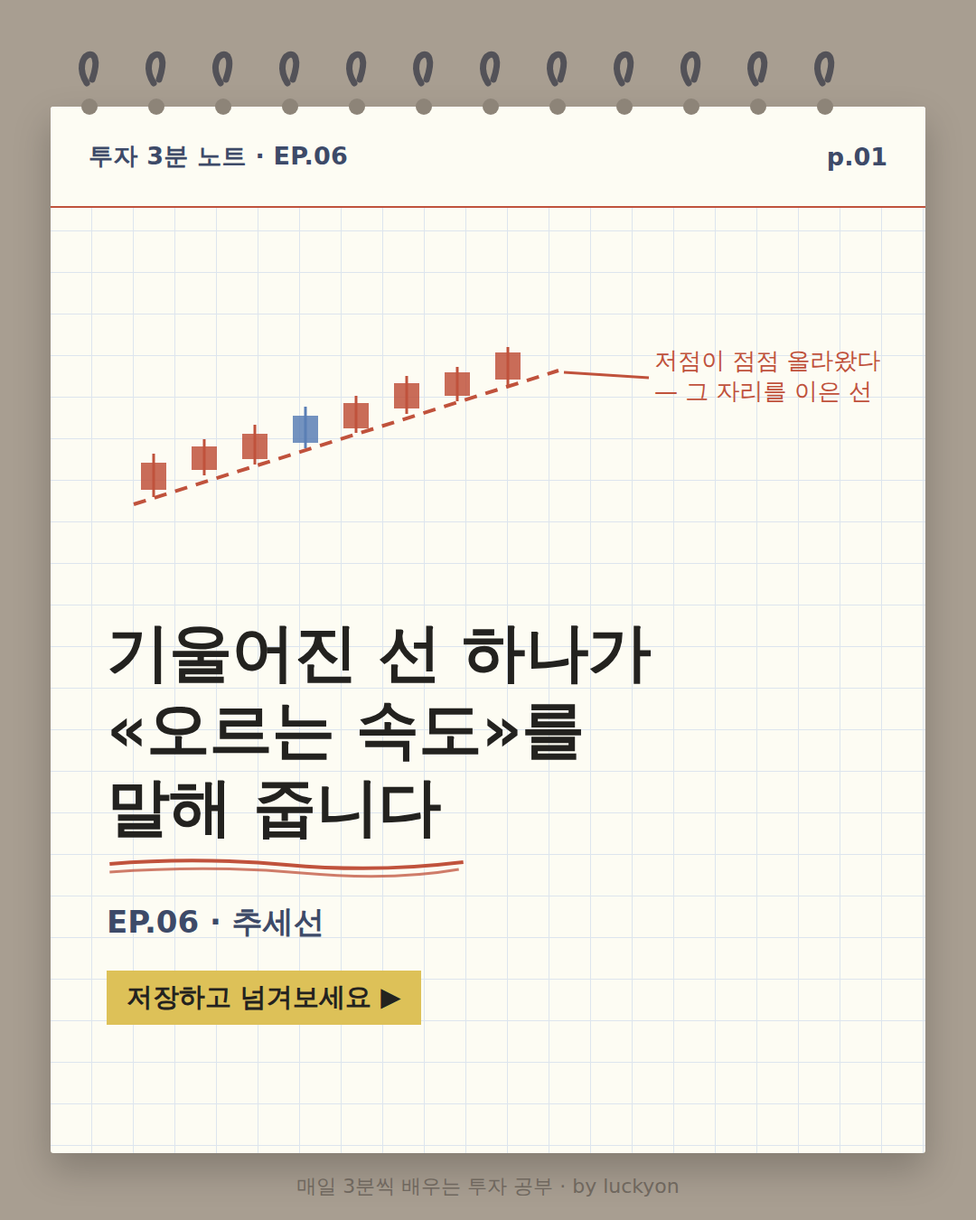
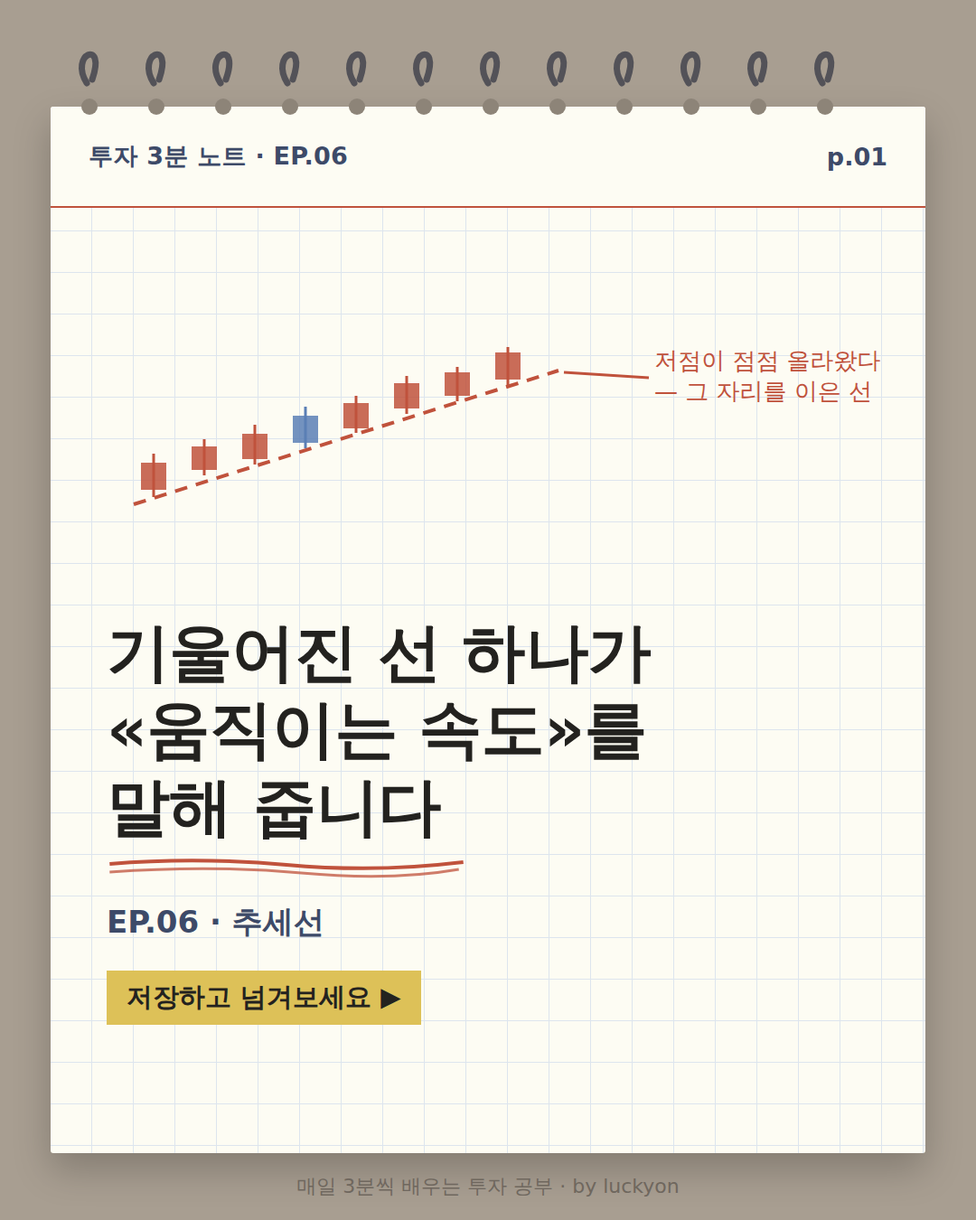
chart-notes: 2026-09-06-ep06 하락 추세선 누락 보완
사용자 검토 지적 — «하락 추세선이면 점점 낮아지는 것 아닌가, 전체적으로
상승하는 경우만 설명돼 있다». 실제로 카드 8장에 「저점」이 32번, 「고점」이
0번 나왔다. 하락 추세선은 고점을 잇고 그 고점이 점점 낮아지는데 그 말이
카드 어디에도 없어, 사실상 «추세선 = 저점을 잇는 선»으로 가르치고 있었다.
캡션에만 한 줄 있었으나 저장·재공유되는 것은 카드 이미지라 소용이 없다.

- p.03(개념)·p.05(이탈)에 note 문단으로 반대 방향을 적었다. 고점을 이으면
  하락 추세선이 되고 가격은 그 선을 아래에서 만나며, 이탈은 선 «위로»
  올라간 날이다. 그림은 EP.05 의 flip 과 같은 이유로 한 방향만 유지한다.
- 방향 중립으로 고친 곳: 표지 제목(오르는 → 움직이는 속도), p.04 비교표
  세 행 전부(저점 → 점 / 선 아래로 내려가면 → 선을 벗어나면)와 마무리,
  p.07 실수 ③ 과 경고문, p.08 요약 세 줄.
- 워크드 예시(표지 그림·도입 스케치·p.06 실제 사례)는 상승 한 방향으로
  둔다 — 화면에 그린 것과 글이 어긋나지 않아야 하기 때문이다.

캡션·대체텍스트도 같이 갱신했다. 발행 전이며 published 는 비어 있다.

Claude-Session: https://claude.ai/code/session_01DwdXeftpno199BA7Z1hCtm

Changed region(s): [[0.1528, 0.56, 0.6722, 0.6222]]

diff --git a/cards/chart-notes/2026-09-06-ep06/preview.html b/cards/chart-notes/2026-09-06-ep06/preview.html
@@ -62,76 +62,76 @@
     <h2>🇰🇷 한국어 — 8장</h2>
     <div class="cards">
     <figure>
-      <img src="ko/card1.png" alt="표지. 크림색 모눈 노트 위에 캔들 여덟 개가 왼쪽 아래에서 오른쪽 위로 계단처럼 올라간다. 그 캔들들의 아래꼬리 끝을 따라 붉은 점선 하나가 비스듬히 그어져 있고, 여러 캔들의 저가가 그 선에 닿아 있다. 점선의 오른쪽 끝을 가리키며 '저점이 점점 올라왔다 — 그 자리를 이은 선'이라는 주석이 붙어 있다. 큰 제목 '기울어진 선 하나가 «오르는 속도»를 말해 줍니다', 부제 'EP.06 · 추세선', 노란 형광펜 칩 '저장하고 넘겨보세요'." loading="lazy">
-      <figcaption><b>p.01</b> 표지. 크림색 모눈 노트 위에 캔들 여덟 개가 왼쪽 아래에서 오른쪽 위로 계단처럼 올라간다. 그 캔들들의 아래꼬리 끝을 따라 붉은 점선 하나가 비스듬히 그어져 있고, 여러 캔들의 저가가 그 선에 닿아 있다. 점선의 오른쪽 끝을 가리키며 '저점이 점점 올라왔다 — 그 자리를 이은 선'이라는 주석이 붙어 있다. 큰 제목 '기울어진 선 하나가 «오르는 속도»를 말해 줍니다', 부제 'EP.06 · 추세선', 노란 형광펜 칩 '저장하고 넘겨보세요'.</figcaption>
+      <img src="ko/card1.png" alt="표지. 크림색 모눈 노트 위에 캔들 여덟 개가 왼쪽 아래에서 오른쪽 위로 계단처럼 올라간다. 그 캔들들의 아래꼬리 끝을 따라 붉은 점선 하나가 비스듬히 그어져 있고, 여러 캔들의 저가가 그 선에 닿아 있다. 점선의 오른쪽 끝을 가리키며 '저점이 점점 올라왔다 — 그 자리를 이은 선'이라는 주석이 붙어 있다. 큰 제목 '기울어진 선 하나가 «움직이는 속도»를 말해 줍니다', 부제 'EP.06 · 추세선', 노란 형광펜 칩 '저장하고 넘겨보세요'." loading="lazy">
+      <figcaption><b>p.01</b> 표지. 크림색 모눈 노트 위에 캔들 여덟 개가 왼쪽 아래에서 오른쪽 위로 계단처럼 올라간다. 그 캔들들의 아래꼬리 끝을 따라 붉은 점선 하나가 비스듬히 그어져 있고, 여러 캔들의 저가가 그 선에 닿아 있다. 점선의 오른쪽 끝을 가리키며 '저점이 점점 올라왔다 — 그 자리를 이은 선'이라는 주석이 붙어 있다. 큰 제목 '기울어진 선 하나가 «움직이는 속도»를 말해 줍니다', 부제 'EP.06 · 추세선', 노란 형광펜 칩 '저장하고 넘겨보세요'.</figcaption>
     </figure>
     <figure>
       <img src="ko/card2.png" alt="도입 카드. 제목 '차트에 비스듬한 선, 어떻게 그은 걸까요?' 아래에 '가로선은 높이가 하나뿐이라 찾기 쉽지만 이 선은 닿는 자리마다 값이 다르다'는 본문이 있다. 그림은 회색 꺾은선이 왼쪽 아래에서 오른쪽 위로 오르내리며 올라가고, 그 저점들을 따라 붉은 점선 한 줄이 비스듬히 가로지른다. 점선이 끝나는 오른쪽 바깥에 붉은 물음표 세 개가 찍혀 «이 선이 어떻게 그어진 것이냐»고 묻는다. 맨 아래 '이번 편은 그 기울기가 무엇을 뜻하는지 봅니다'." loading="lazy">
       <figcaption><b>p.02</b> 도입 카드. 제목 '차트에 비스듬한 선, 어떻게 그은 걸까요?' 아래에 '가로선은 높이가 하나뿐이라 찾기 쉽지만 이 선은 닿는 자리마다 값이 다르다'는 본문이 있다. 그림은 회색 꺾은선이 왼쪽 아래에서 오른쪽 위로 오르내리며 올라가고, 그 저점들을 따라 붉은 점선 한 줄이 비스듬히 가로지른다. 점선이 끝나는 오른쪽 바깥에 붉은 물음표 세 개가 찍혀 «이 선이 어떻게 그어진 것이냐»고 묻는다. 맨 아래 '이번 편은 그 기울기가 무엇을 뜻하는지 봅니다'.</figcaption>
     </figure>
     <figure>
-      <img src="ko/card3.png" alt="원리 카드. 감청색 꺾은선이 오르내리며 오른쪽 위로 올라가고, 그 저점 세 개를 지나는 붉은 점선이 왼쪽 아래에서 오른쪽 위로 비스듬히 그어져 있다. 선이 그 점선에 닿은 자리마다 붉은 동그라미 안에 번호가 매겨져 있다 — 왼쪽부터 ①②③. 본문은 되돌아선 저점 중 점점 높아지는 두 개를 골라 잇고, 그 선을 오른쪽으로 늘려 세 번째로 그 선에서 멈추는지 본다고 설명한다. 아래 범례에 감청색 '주가'와 붉은색 '추세선'. 노란 형광펜 마무리 문구는 '두 점이면 선, 세 번째부터 «추세»입니다'." loading="lazy">
-      <figcaption><b>p.03</b> 원리 카드. 감청색 꺾은선이 오르내리며 오른쪽 위로 올라가고, 그 저점 세 개를 지나는 붉은 점선이 왼쪽 아래에서 오른쪽 위로 비스듬히 그어져 있다. 선이 그 점선에 닿은 자리마다 붉은 동그라미 안에 번호가 매겨져 있다 — 왼쪽부터 ①②③. 본문은 되돌아선 저점 중 점점 높아지는 두 개를 골라 잇고, 그 선을 오른쪽으로 늘려 세 번째로 그 선에서 멈추는지 본다고 설명한다. 아래 범례에 감청색 '주가'와 붉은색 '추세선'. 노란 형광펜 마무리 문구는 '두 점이면 선, 세 번째부터 «추세»입니다'.</figcaption>
+      <img src="ko/card3.png" alt="원리 카드. 감청색 꺾은선이 오르내리며 오른쪽 위로 올라가고, 그 저점 세 개를 지나는 붉은 점선이 왼쪽 아래에서 오른쪽 위로 비스듬히 그어져 있다. 선이 그 점선에 닿은 자리마다 붉은 동그라미 안에 번호가 매겨져 있다 — 왼쪽부터 ①②③. 본문은 되돌아선 저점 중 점점 높아지는 두 개를 골라 잇고, 그 선을 오른쪽으로 늘려 세 번째로 그 선에서 멈추는지 본다고 설명한다. 아래 범례에 감청색 '주가'와 붉은색 '추세선'. 그 아래 붉은 세로줄이 그어진 문단에 '거꾸로도 똑같습니다. 점점 «낮아지는» 고점 두 개를 이으면 하락 추세선이 되고, 가격은 그 선을 아래에서 만납니다. 잇는 자리가 저점에서 고점으로, 오름이 내림으로 바뀔 뿐입니다.' 노란 형광펜 마무리 문구는 '두 점이면 선, 세 번째부터 «추세»입니다'." loading="lazy">
+      <figcaption><b>p.03</b> 원리 카드. 감청색 꺾은선이 오르내리며 오른쪽 위로 올라가고, 그 저점 세 개를 지나는 붉은 점선이 왼쪽 아래에서 오른쪽 위로 비스듬히 그어져 있다. 선이 그 점선에 닿은 자리마다 붉은 동그라미 안에 번호가 매겨져 있다 — 왼쪽부터 ①②③. 본문은 되돌아선 저점 중 점점 높아지는 두 개를 골라 잇고, 그 선을 오른쪽으로 늘려 세 번째로 그 선에서 멈추는지 본다고 설명한다. 아래 범례에 감청색 '주가'와 붉은색 '추세선'. 그 아래 붉은 세로줄이 그어진 문단에 '거꾸로도 똑같습니다. 점점 «낮아지는» 고점 두 개를 이으면 하락 추세선이 되고, 가격은 그 선을 아래에서 만납니다. 잇는 자리가 저점에서 고점으로, 오름이 내림으로 바뀔 뿐입니다.' 노란 형광펜 마무리 문구는 '두 점이면 선, 세 번째부터 «추세»입니다'.</figcaption>
     </figure>
     <figure>
-      <img src="ko/card4.png" alt="비교 카드 '가로선과 무엇이 다른가'. 왼쪽에 감청색으로 칠해진 '추세선 · 기울어진 선', 오른쪽에 회색 '지지선 · 가로선' 머리칸이 있고 아래로 세 줄이 맞대어 있다. '잇는 저점들은' — 점점 높아진다 / 같은 높이다. '그래서 선이 남기는 것은' — 저점이 오르는 «속도» / 멈추는 «높이». '선 아래로 내려가면' — 그 속도가 끊긴 것 / 그 높이가 뚫린 것. 노란 형광펜 마무리 문구는 '추세선은 매일 더 높은 값을 요구합니다'." loading="lazy">
-      <figcaption><b>p.04</b> 비교 카드 '가로선과 무엇이 다른가'. 왼쪽에 감청색으로 칠해진 '추세선 · 기울어진 선', 오른쪽에 회색 '지지선 · 가로선' 머리칸이 있고 아래로 세 줄이 맞대어 있다. '잇는 저점들은' — 점점 높아진다 / 같은 높이다. '그래서 선이 남기는 것은' — 저점이 오르는 «속도» / 멈추는 «높이». '선 아래로 내려가면' — 그 속도가 끊긴 것 / 그 높이가 뚫린 것. 노란 형광펜 마무리 문구는 '추세선은 매일 더 높은 값을 요구합니다'.</figcaption>
+      <img src="ko/card4.png" alt="비교 카드 '가로선과 무엇이 다른가'. 왼쪽에 감청색으로 칠해진 '추세선 · 기울어진 선', 오른쪽에 회색 '지지선 · 가로선' 머리칸이 있고 아래로 세 줄이 맞대어 있다. '잇는 점들은' — 점점 높아지거나 낮아진다 / 같은 높이다. '그래서 선이 남기는 것은' — 그 점들이 옮겨 가는 «속도» / 멈추는 «높이». '선을 벗어나면' — 그 속도가 끊긴 것 / 그 높이가 뚫린 것. 노란 형광펜 마무리 문구는 '추세선은 어제 값으로는 지켜지지 않습니다'." loading="lazy">
+      <figcaption><b>p.04</b> 비교 카드 '가로선과 무엇이 다른가'. 왼쪽에 감청색으로 칠해진 '추세선 · 기울어진 선', 오른쪽에 회색 '지지선 · 가로선' 머리칸이 있고 아래로 세 줄이 맞대어 있다. '잇는 점들은' — 점점 높아지거나 낮아진다 / 같은 높이다. '그래서 선이 남기는 것은' — 그 점들이 옮겨 가는 «속도» / 멈추는 «높이». '선을 벗어나면' — 그 속도가 끊긴 것 / 그 높이가 뚫린 것. 노란 형광펜 마무리 문구는 '추세선은 어제 값으로는 지켜지지 않습니다'.</figcaption>
     </figure>
     <figure>
-      <img src="ko/card5.png" alt="추세 이탈 카드. 감청색 꺾은선이 붉은 점선 추세선을 따라 올라가며 세 번 그 선에서 멈추고, 멈춘 자리마다 붉은 동그라미 ①②③이 붙어 있다. 그러다 오른쪽에서 선이 꺾여 내려오면서 이번에는 점선 «아래»에서 멈추고, 그 지점에 번호 없는 붉은 동그라미와 '추세 이탈'이라는 라벨이 붙어 있다. 이후 선은 점선 아래에 머문 채 오른쪽으로 이어진다. 본문은 그날 가격이 전보다 낮아졌다는 뜻이 아니라 앞선 저점들이 만들어 놓은 속도에 못 미쳤다는 뜻이라고 설명한다. 노란 형광펜 마무리 문구는 '«떨어졌다»가 아니라 «속도가 꺾였다»입니다'." loading="lazy">
-      <figcaption><b>p.05</b> 추세 이탈 카드. 감청색 꺾은선이 붉은 점선 추세선을 따라 올라가며 세 번 그 선에서 멈추고, 멈춘 자리마다 붉은 동그라미 ①②③이 붙어 있다. 그러다 오른쪽에서 선이 꺾여 내려오면서 이번에는 점선 «아래»에서 멈추고, 그 지점에 번호 없는 붉은 동그라미와 '추세 이탈'이라는 라벨이 붙어 있다. 이후 선은 점선 아래에 머문 채 오른쪽으로 이어진다. 본문은 그날 가격이 전보다 낮아졌다는 뜻이 아니라 앞선 저점들이 만들어 놓은 속도에 못 미쳤다는 뜻이라고 설명한다. 노란 형광펜 마무리 문구는 '«떨어졌다»가 아니라 «속도가 꺾였다»입니다'.</figcaption>
+      <img src="ko/card5.png" alt="추세 이탈 카드. 감청색 꺾은선이 붉은 점선 추세선을 따라 올라가며 세 번 그 선에서 멈추고, 멈춘 자리마다 붉은 동그라미 ①②③이 붙어 있다. 그러다 오른쪽에서 선이 꺾여 내려오면서 이번에는 점선 «아래»에서 멈추고, 그 지점에 번호 없는 붉은 동그라미와 '추세 이탈'이라는 라벨이 붙어 있다. 이후 선은 점선 아래에 머문 채 오른쪽으로 이어진다. 본문은 그날 가격이 전보다 낮아졌다는 뜻이 아니라 앞선 저점들이 만들어 놓은 속도에 못 미쳤다는 뜻이라고 설명한다. 그림 아래 붉은 세로줄이 그어진 문단에 '하락 추세선이면 방향만 반대입니다 — 고점을 이은 선 «위로» 올라간 날이 이탈입니다.' 노란 형광펜 마무리 문구는 '«떨어졌다»가 아니라 «속도가 꺾였다»입니다'." loading="lazy">
+      <figcaption><b>p.05</b> 추세 이탈 카드. 감청색 꺾은선이 붉은 점선 추세선을 따라 올라가며 세 번 그 선에서 멈추고, 멈춘 자리마다 붉은 동그라미 ①②③이 붙어 있다. 그러다 오른쪽에서 선이 꺾여 내려오면서 이번에는 점선 «아래»에서 멈추고, 그 지점에 번호 없는 붉은 동그라미와 '추세 이탈'이라는 라벨이 붙어 있다. 이후 선은 점선 아래에 머문 채 오른쪽으로 이어진다. 본문은 그날 가격이 전보다 낮아졌다는 뜻이 아니라 앞선 저점들이 만들어 놓은 속도에 못 미쳤다는 뜻이라고 설명한다. 그림 아래 붉은 세로줄이 그어진 문단에 '하락 추세선이면 방향만 반대입니다 — 고점을 이은 선 «위로» 올라간 날이 이탈입니다.' 노란 형광펜 마무리 문구는 '«떨어졌다»가 아니라 «속도가 꺾였다»입니다'.</figcaption>
     </figure>
     <figure>
       <img src="ko/card6.png" alt="실제 사례 카드. 삼성전자 2026년 7월 30일부터 8월 28일까지 스물한 개의 일봉과 그 아래 거래량 막대가 두 칸으로 그려져 있다. 7월 30일 저가에서 시작해 오른쪽 위로 올라가는 붉은 점선 추세선이 그어져 있고 그 아래에 '추세선' 라벨이 붙어 있다. 붉은 동그라미 번호가 세 곳에 있다 — ①은 7월 30일 저가 20만 2,000원, ②는 8월 11일 저가 22만 7,500원, ③은 8월 24일 저가 25만 5,000원 자리다. 8월 24일까지는 어느 날의 저가도 점선 아래로 내려가지 않는다. 그 뒤 8월 25·26·27일은 아래꼬리 끝만 점선 아래로 내려갔다가 몸통은 위에서 끝나고, 맨 오른쪽 8월 28일 봉에는 종가 25만 7,000원 자리에 번호 없는 붉은 동그라미와 '종가 이탈' 라벨이 붙어 있다 — 이 자리는 점선보다 뚜렷이 아래다. x축에는 7/30, 8/3, 8/6, 8/11, 8/14, 8/19, 8/24, 8/28 이 찍혀 있다. 마무리 문구 '꼬리가 아니라 종가가 내려간 날이 이탈입니다'." loading="lazy">
       <figcaption><b>p.06</b> 실제 사례 카드. 삼성전자 2026년 7월 30일부터 8월 28일까지 스물한 개의 일봉과 그 아래 거래량 막대가 두 칸으로 그려져 있다. 7월 30일 저가에서 시작해 오른쪽 위로 올라가는 붉은 점선 추세선이 그어져 있고 그 아래에 '추세선' 라벨이 붙어 있다. 붉은 동그라미 번호가 세 곳에 있다 — ①은 7월 30일 저가 20만 2,000원, ②는 8월 11일 저가 22만 7,500원, ③은 8월 24일 저가 25만 5,000원 자리다. 8월 24일까지는 어느 날의 저가도 점선 아래로 내려가지 않는다. 그 뒤 8월 25·26·27일은 아래꼬리 끝만 점선 아래로 내려갔다가 몸통은 위에서 끝나고, 맨 오른쪽 8월 28일 봉에는 종가 25만 7,000원 자리에 번호 없는 붉은 동그라미와 '종가 이탈' 라벨이 붙어 있다 — 이 자리는 점선보다 뚜렷이 아래다. x축에는 7/30, 8/3, 8/6, 8/11, 8/14, 8/19, 8/24, 8/28 이 찍혀 있다. 마무리 문구 '꼬리가 아니라 종가가 내려간 날이 이탈입니다'.</figcaption>
     </figure>
     <figure>
-      <img src="ko/card7.png" alt="실수 카드. 번호 붙은 세 항목. 1. 선부터 긋고 저점을 고른다 — 그럴듯한 각도를 먼저 정하고 거기 걸리는 저점만 고르면 시장의 기록이 아니라 내가 그린 그림이 된다. 2. 꼬리 하나로 이탈을 판정한다 — 장중에 저가가 잠깐 선 아래를 찍었다가 다시 올라온 날과 종가까지 선 아래에서 끝난 날은 다르다. 3. 가파를수록 좋은 선이라 본다 — 가파른 선은 저점이 매번 그만큼 더 올라와야 유지되므로 요구가 클수록 지켜지기 어렵다. 아래 붉은 테두리 상자에 '가장 흔한 오해 — 선 아래로 내려갔다고 방향이 바뀐 것은 아닙니다. 그 속도가 더는 나오지 않았다는 기록일 뿐, 앞으로 어떻게 될지는 말해 주지 않습니다'." loading="lazy">
-      <figcaption><b>p.07</b> 실수 카드. 번호 붙은 세 항목. 1. 선부터 긋고 저점을 고른다 — 그럴듯한 각도를 먼저 정하고 거기 걸리는 저점만 고르면 시장의 기록이 아니라 내가 그린 그림이 된다. 2. 꼬리 하나로 이탈을 판정한다 — 장중에 저가가 잠깐 선 아래를 찍었다가 다시 올라온 날과 종가까지 선 아래에서 끝난 날은 다르다. 3. 가파를수록 좋은 선이라 본다 — 가파른 선은 저점이 매번 그만큼 더 올라와야 유지되므로 요구가 클수록 지켜지기 어렵다. 아래 붉은 테두리 상자에 '가장 흔한 오해 — 선 아래로 내려갔다고 방향이 바뀐 것은 아닙니다. 그 속도가 더는 나오지 않았다는 기록일 뿐, 앞으로 어떻게 될지는 말해 주지 않습니다'.</figcaption>
+      <img src="ko/card7.png" alt="실수 카드. 번호 붙은 세 항목. 1. 선부터 긋고 저점을 고른다 — 그럴듯한 각도를 먼저 정하고 거기 걸리는 저점만 고르면 시장의 기록이 아니라 내가 그린 그림이 된다. 2. 꼬리 하나로 이탈을 판정한다 — 장중에 저가가 잠깐 선 아래를 찍었다가 다시 올라온 날과 종가까지 선 아래에서 끝난 날은 다르다. 3. 가파를수록 좋은 선이라 본다 — 가파른 선은 그 점들이 매번 그만큼 더 움직여야 유지되므로 요구가 클수록 지켜지기 어렵다. 아래 붉은 테두리 상자에 '가장 흔한 오해 — 선을 벗어났다고 방향이 바뀐 것은 아닙니다. 그 속도가 더는 나오지 않았다는 기록일 뿐, 앞으로 어떻게 될지는 말해 주지 않습니다'." loading="lazy">
+      <figcaption><b>p.07</b> 실수 카드. 번호 붙은 세 항목. 1. 선부터 긋고 저점을 고른다 — 그럴듯한 각도를 먼저 정하고 거기 걸리는 저점만 고르면 시장의 기록이 아니라 내가 그린 그림이 된다. 2. 꼬리 하나로 이탈을 판정한다 — 장중에 저가가 잠깐 선 아래를 찍었다가 다시 올라온 날과 종가까지 선 아래에서 끝난 날은 다르다. 3. 가파를수록 좋은 선이라 본다 — 가파른 선은 그 점들이 매번 그만큼 더 움직여야 유지되므로 요구가 클수록 지켜지기 어렵다. 아래 붉은 테두리 상자에 '가장 흔한 오해 — 선을 벗어났다고 방향이 바뀐 것은 아닙니다. 그 속도가 더는 나오지 않았다는 기록일 뿐, 앞으로 어떻게 될지는 말해 주지 않습니다'.</figcaption>
     </figure>
     <figure>
-      <img src="ko/card8.png" alt="요약 카드. 체크박스 세 줄: 저점 두 개면 그어지고, 세 번째가 확인합니다 / 기울기는 저점이 오르는 «속도»입니다 / 내려가면 방향이 아니라 속도가 끊긴 것입니다. 노란 형광펜 칩 두 개로 저장 유도와 해시태그, 그 아래 '다음 편 ▶ 갭 상승·갭 하락', 맨 아래에 교육 목적 고지." loading="lazy">
-      <figcaption><b>p.08</b> 요약 카드. 체크박스 세 줄: 저점 두 개면 그어지고, 세 번째가 확인합니다 / 기울기는 저점이 오르는 «속도»입니다 / 내려가면 방향이 아니라 속도가 끊긴 것입니다. 노란 형광펜 칩 두 개로 저장 유도와 해시태그, 그 아래 '다음 편 ▶ 갭 상승·갭 하락', 맨 아래에 교육 목적 고지.</figcaption>
+      <img src="ko/card8.png" alt="요약 카드. 체크박스 세 줄: 점 두 개면 그어지고, 세 번째가 확인합니다 / 기울기는 그 점들이 옮겨 가는 «속도»입니다 / 선을 벗어나면 방향이 아니라 속도가 끊긴 것입니다. 노란 형광펜 칩 두 개로 저장 유도와 해시태그, 그 아래 '다음 편 ▶ 갭 상승·갭 하락', 맨 아래에 교육 목적 고지." loading="lazy">
+      <figcaption><b>p.08</b> 요약 카드. 체크박스 세 줄: 점 두 개면 그어지고, 세 번째가 확인합니다 / 기울기는 그 점들이 옮겨 가는 «속도»입니다 / 선을 벗어나면 방향이 아니라 속도가 끊긴 것입니다. 노란 형광펜 칩 두 개로 저장 유도와 해시태그, 그 아래 '다음 편 ▶ 갭 상승·갭 하락', 맨 아래에 교육 목적 고지.</figcaption>
     </figure></div>
-    <h3>캡션 (914자)</h3>
-    <div class="cap">차트에 비스듬하게 그어진 선, 대충 눈대중으로 그은 게 아닙니다.<br><br>가격이 되돌아선 저점 중에서 «점점 높아지는» 두 개를 골라 이으면 그게 추세선입니다. 두 점이면 선은 그어지고, 세 번째로 그 선에서 멈추는 날이 와야 «추세»가 됩니다.<br><br>이번 편에서 꼭 가져가셨으면 하는 것 하나. 가로선(지지선)과 추세선은 재는 것이 다릅니다. 가로선은 가격이 멈추는 «높이»를 남기고, 추세선은 그 저점이 올라가는 «속도»를 남깁니다. 그래서 선 아래로 내려간 날은 «떨어진 날»이 아니라 «앞선 저점들이 만들어 놓은 속도에 못 미친 날»입니다. 방향이 바뀌었다는 뜻이 아니라는 것, 이게 가장 흔한 오해입니다.<br><br>실제 삼성전자 일봉으로도 확인했습니다. 2026년 7월 30일 저가 20만 2,000원과 8월 11일 저가 22만 7,500원을 이어 오른쪽으로 늘렸더니, 8거래일 뒤인 8월 24일 저가 25만 5,000원이 그 선(25만 3,000원) 바로 위에서 멈췄습니다. 그리고 이 선이 어떻게 끝났는지도 함께 실었습니다 — 8월 25·26·27일은 꼬리만 선 아래를 찍고 종가는 위였지만, 8월 28일 종가 25만 7,000원이 선(26만 5,750원) 아래에서 끝나며 이탈이 확정됐습니다. 꼬리와 종가를 갈라 보는 이유가 여기 있습니다.<br><br>이번 편은 저점을 잇는 «상승» 추세선만 봤습니다. 고점을 잇는 하락 추세선도 긋는 방법은 똑같습니다.<br><br>기억할 세 가지<br>① 저점 두 개면 그어지고, 세 번째가 확인한다<br>② 기울기는 저점이 오르는 속도다<br>③ 내려가면 방향이 아니라 속도가 끊긴 것이다<br><br>저장해 두고 차트 볼 때 꺼내 보세요 📌<br><br>#추세선 #추세이탈 #지지선 #주식차트 #주식공부 #주식초보 #차트분석 #기술적분석 #삼성전자 #투자3분노트<br><br>다음 편 ▶ 갭 상승·갭 하락<br><br>※ 본 콘텐츠는 교육 목적이며 투자 권유가 아닙니다.</div>
+    <h3>캡션 (1016자)</h3>
+    <div class="cap">차트에 비스듬하게 그어진 선, 대충 눈대중으로 그은 게 아닙니다.<br><br>가격이 되돌아선 저점 중에서 «점점 높아지는» 두 개를 골라 이으면 그게 추세선입니다. 두 점이면 선은 그어지고, 세 번째로 그 선에서 멈추는 날이 와야 «추세»가 됩니다.<br><br>이번 편에서 꼭 가져가셨으면 하는 것 하나. 가로선(지지선)과 추세선은 재는 것이 다릅니다. 가로선은 가격이 멈추는 «높이»를 남기고, 추세선은 그 저점이 올라가는 «속도»를 남깁니다. 그래서 선 아래로 내려간 날은 «떨어진 날»이 아니라 «앞선 저점들이 만들어 놓은 속도에 못 미친 날»입니다. 방향이 바뀌었다는 뜻이 아니라는 것, 이게 가장 흔한 오해입니다.<br><br>실제 삼성전자 일봉으로도 확인했습니다. 2026년 7월 30일 저가 20만 2,000원과 8월 11일 저가 22만 7,500원을 이어 오른쪽으로 늘렸더니, 8거래일 뒤인 8월 24일 저가 25만 5,000원이 그 선(25만 3,000원) 바로 위에서 멈췄습니다. 그리고 이 선이 어떻게 끝났는지도 함께 실었습니다 — 8월 25·26·27일은 꼬리만 선 아래를 찍고 종가는 위였지만, 8월 28일 종가 25만 7,000원이 선(26만 5,750원) 아래에서 끝나며 이탈이 확정됐습니다. 꼬리와 종가를 갈라 보는 이유가 여기 있습니다.<br><br>카드의 예시는 저점을 잇는 상승 추세선이지만, 거꾸로도 똑같습니다. 점점 «낮아지는» 고점 두 개를 이으면 하락 추세선이 되고, 가격은 그 선을 아래에서 만납니다. 이때는 선 «위로» 올라간 날이 이탈입니다. 잇는 자리가 저점에서 고점으로, 오름이 내림으로 바뀔 뿐 방법은 하나입니다.<br><br>기억할 세 가지<br>① 저점 두 개면 그어지고, 세 번째가 확인한다<br>② 기울기는 저점이 오르는 속도다<br>③ 내려가면 방향이 아니라 속도가 끊긴 것이다<br><br>저장해 두고 차트 볼 때 꺼내 보세요 📌<br><br>#추세선 #추세이탈 #지지선 #주식차트 #주식공부 #주식초보 #차트분석 #기술적분석 #삼성전자 #투자3분노트<br><br>다음 편 ▶ 갭 상승·갭 하락<br><br>※ 본 콘텐츠는 교육 목적이며 투자 권유가 아닙니다.</div>
 
     <h2>🇺🇸 English — 8장</h2>
     <div class="cards">
     <figure>
-      <img src="en/card1.png" alt="Cover. On cream grid paper, eight candlesticks step up from the lower left to the upper right. A single red dashed line runs diagonally beneath them, touching the lows of several candles. An annotation points at the right end of that line: 'the lows kept rising — that's the line'. Headline 'One slanted line tells you how fast it's climbing', subtitle 'EP.06 · Trendlines', yellow highlighter chip 'Save this and swipe'." loading="lazy">
-      <figcaption><b>p.01</b> Cover. On cream grid paper, eight candlesticks step up from the lower left to the upper right. A single red dashed line runs diagonally beneath them, touching the lows of several candles. An annotation points at the right end of that line: 'the lows kept rising — that's the line'. Headline 'One slanted line tells you how fast it's climbing', subtitle 'EP.06 · Trendlines', yellow highlighter chip 'Save this and swipe'.</figcaption>
+      <img src="en/card1.png" alt="Cover. On cream grid paper, eight candlesticks step up from the lower left to the upper right. A single red dashed line runs diagonally beneath them, touching the lows of several candles. An annotation points at the right end of that line: 'the lows kept rising — that's the line'. Headline 'One slanted line tells you how fast, not just which way', subtitle 'EP.06 · Trendlines', yellow highlighter chip 'Save this and swipe'." loading="lazy">
+      <figcaption><b>p.01</b> Cover. On cream grid paper, eight candlesticks step up from the lower left to the upper right. A single red dashed line runs diagonally beneath them, touching the lows of several candles. An annotation points at the right end of that line: 'the lows kept rising — that's the line'. Headline 'One slanted line tells you how fast, not just which way', subtitle 'EP.06 · Trendlines', yellow highlighter chip 'Save this and swipe'.</figcaption>
     </figure>
     <figure>
       <img src="en/card2.png" alt="Intro card. Headline 'That slanted line — how was it drawn?' with body text noting that a flat line sits at one price while this one is a different price everywhere it's touched. The sketch shows a grey zigzag climbing from the lower left to the upper right, with a single red dashed line running diagonally along its lows, and three red question marks just beyond where that dashed line ends. Footer line: 'This one is about what that slope means'." loading="lazy">
       <figcaption><b>p.02</b> Intro card. Headline 'That slanted line — how was it drawn?' with body text noting that a flat line sits at one price while this one is a different price everywhere it's touched. The sketch shows a grey zigzag climbing from the lower left to the upper right, with a single red dashed line running diagonally along its lows, and three red question marks just beyond where that dashed line ends. Footer line: 'This one is about what that slope means'.</figcaption>
     </figure>
     <figure>
-      <img src="en/card3.png" alt="Mechanics card. A navy zigzag climbs to the upper right, and a red dashed line runs diagonally through three of its lows. Each point where the price line stops on that dashed line is marked with a red circled number — 1, 2 and 3 from left to right. Body text explains picking two lows that sit at rising heights, joining them, extending the line to the right, and watching for a third stop on it. A legend below shows navy 'Price' and red 'Trendline'. Yellow highlighter closing: 'Two points, a line. Three, a trend.'" loading="lazy">
-      <figcaption><b>p.03</b> Mechanics card. A navy zigzag climbs to the upper right, and a red dashed line runs diagonally through three of its lows. Each point where the price line stops on that dashed line is marked with a red circled number — 1, 2 and 3 from left to right. Body text explains picking two lows that sit at rising heights, joining them, extending the line to the right, and watching for a third stop on it. A legend below shows navy 'Price' and red 'Trendline'. Yellow highlighter closing: 'Two points, a line. Three, a trend.'</figcaption>
+      <img src="en/card3.png" alt="Mechanics card. A navy zigzag climbs to the upper right, and a red dashed line runs diagonally through three of its lows. Each point where the price line stops on that dashed line is marked with a red circled number — 1, 2 and 3 from left to right. Body text explains picking two lows that sit at rising heights, joining them, extending the line to the right, and watching for a third stop on it. A legend below shows navy 'Price' and red 'Trendline'. Below the figure, a paragraph with a red rule down its left edge reads 'It works upside down too. Join two highs that sit at falling heights and you get a downtrend line, which price meets from below. Only the points change - highs instead of lows, falling instead of rising.' Yellow highlighter closing: 'Two points, a line. Three, a trend.'" loading="lazy">
+      <figcaption><b>p.03</b> Mechanics card. A navy zigzag climbs to the upper right, and a red dashed line runs diagonally through three of its lows. Each point where the price line stops on that dashed line is marked with a red circled number — 1, 2 and 3 from left to right. Body text explains picking two lows that sit at rising heights, joining them, extending the line to the right, and watching for a third stop on it. A legend below shows navy 'Price' and red 'Trendline'. Below the figure, a paragraph with a red rule down its left edge reads 'It works upside down too. Join two highs that sit at falling heights and you get a downtrend line, which price meets from below. Only the points change - highs instead of lows, falling instead of rising.' Yellow highlighter closing: 'Two points, a line. Three, a trend.'</figcaption>
     </figure>
     <figure>
-      <img src="en/card4.png" alt="Comparison card headed 'How it differs from a flat line'. A navy panel labelled 'Trendline · slanted' sits on the left, a grey panel labelled 'Support · flat' on the right, with three rows beneath. 'The lows it joins' — keep rising / sit at one height. 'So what the line records' — the pace the lows rise / the height it stops at. 'If price slips below it' — that pace has broken / that height has given way. Yellow highlighter closing: 'A trendline asks a higher price every day.'" loading="lazy">
-      <figcaption><b>p.04</b> Comparison card headed 'How it differs from a flat line'. A navy panel labelled 'Trendline · slanted' sits on the left, a grey panel labelled 'Support · flat' on the right, with three rows beneath. 'The lows it joins' — keep rising / sit at one height. 'So what the line records' — the pace the lows rise / the height it stops at. 'If price slips below it' — that pace has broken / that height has given way. Yellow highlighter closing: 'A trendline asks a higher price every day.'</figcaption>
+      <img src="en/card4.png" alt="Comparison card headed 'How it differs from a flat line'. A navy panel labelled 'Trendline · slanted' sits on the left, a grey panel labelled 'Support · flat' on the right, with three rows beneath. 'The points it joins' - keep rising or falling / sit at one height. 'So what the line records' - the pace those points move / the height it stops at. 'If price leaves it' - that pace has broken / that height has given way. Yellow highlighter closing: "Yesterday's price won't hold a trendline."" loading="lazy">
+      <figcaption><b>p.04</b> Comparison card headed 'How it differs from a flat line'. A navy panel labelled 'Trendline · slanted' sits on the left, a grey panel labelled 'Support · flat' on the right, with three rows beneath. 'The points it joins' - keep rising or falling / sit at one height. 'So what the line records' - the pace those points move / the height it stops at. 'If price leaves it' - that pace has broken / that height has given way. Yellow highlighter closing: "Yesterday's price won't hold a trendline."</figcaption>
     </figure>
     <figure>
-      <img src="en/card5.png" alt="Trend-break card. A navy price line climbs along a red dashed trendline, stopping on it three times; each stop is marked with a red circled number 1, 2 and 3. Then, at the right, the line turns down and this time its low lands underneath the dashed line; that point carries an unnumbered red circle and a 'Trend break' label. The price line continues to the right while staying below the dashed line. Body text explains that this doesn't mean the price is lower than before — it fell short of the pace the earlier lows had set. Yellow highlighter closing: 'Not "it fell" — "the pace broke"'." loading="lazy">
-      <figcaption><b>p.05</b> Trend-break card. A navy price line climbs along a red dashed trendline, stopping on it three times; each stop is marked with a red circled number 1, 2 and 3. Then, at the right, the line turns down and this time its low lands underneath the dashed line; that point carries an unnumbered red circle and a 'Trend break' label. The price line continues to the right while staying below the dashed line. Body text explains that this doesn't mean the price is lower than before — it fell short of the pace the earlier lows had set. Yellow highlighter closing: 'Not "it fell" — "the pace broke"'.</figcaption>
+      <img src="en/card5.png" alt="Trend-break card. A navy price line climbs along a red dashed trendline, stopping on it three times; each stop is marked with a red circled number 1, 2 and 3. Then, at the right, the line turns down and this time its low lands underneath the dashed line; that point carries an unnumbered red circle and a 'Trend break' label. The price line continues to the right while staying below the dashed line. Body text explains that this doesn't mean the price is lower than before — it fell short of the pace the earlier lows had set. Below the figure, a paragraph with a red rule down its left edge reads "On a downtrend line it's the mirror image: the break is the day price closes above the line joining the highs." Yellow highlighter closing: 'Not "it fell" - "the pace broke"'." loading="lazy">
+      <figcaption><b>p.05</b> Trend-break card. A navy price line climbs along a red dashed trendline, stopping on it three times; each stop is marked with a red circled number 1, 2 and 3. Then, at the right, the line turns down and this time its low lands underneath the dashed line; that point carries an unnumbered red circle and a 'Trend break' label. The price line continues to the right while staying below the dashed line. Body text explains that this doesn't mean the price is lower than before — it fell short of the pace the earlier lows had set. Below the figure, a paragraph with a red rule down its left edge reads "On a downtrend line it's the mirror image: the break is the day price closes above the line joining the highs." Yellow highlighter closing: 'Not "it fell" - "the pace broke"'.</figcaption>
     </figure>
     <figure>
       <img src="en/card6.png" alt="Real-chart card. Twenty Apple daily candlesticks from August 10 to September 4, 2026, with a volume panel beneath. A red dashed trendline rises to the right, starting at the August 12 low, and is labelled 'Trendline' just below it. Three red circled numbers sit on the chart — 1 at the August 12 low of $300.57, 2 at the August 17 low of $302.94, and 3 at the August 27 low of $309.40. The x-axis is marked 8/10, 8/12, 8/17, 8/21, 8/27, 9/1 and 9/4. No low in the window drops beneath the dashed line. Closing line: 'Draw it, and you know where to look next'." loading="lazy">
       <figcaption><b>p.06</b> Real-chart card. Twenty Apple daily candlesticks from August 10 to September 4, 2026, with a volume panel beneath. A red dashed trendline rises to the right, starting at the August 12 low, and is labelled 'Trendline' just below it. Three red circled numbers sit on the chart — 1 at the August 12 low of $300.57, 2 at the August 17 low of $302.94, and 3 at the August 27 low of $309.40. The x-axis is marked 8/10, 8/12, 8/17, 8/21, 8/27, 9/1 and 9/4. No low in the window drops beneath the dashed line. Closing line: 'Draw it, and you know where to look next'.</figcaption>
     </figure>
     <figure>
-      <img src="en/card7.png" alt="Mistakes card. Three numbered items. 1. Drawing the angle first — decide on a slope you like, then pick only the lows that fit it, and the line becomes your drawing rather than the market's record. 2. Calling one wick a break — a low that dips under the line intraday and climbs back is not the same as a close that finishes below it. 3. Assuming steeper is better — a steep line only holds if every low comes in that much higher, so the more it demands the harder it is to keep. A red-bordered box below reads 'The biggest misconception — slipping below the line doesn't mean the direction has flipped. It records that the pace stopped; it says nothing about what comes next.'" loading="lazy">
-      <figcaption><b>p.07</b> Mistakes card. Three numbered items. 1. Drawing the angle first — decide on a slope you like, then pick only the lows that fit it, and the line becomes your drawing rather than the market's record. 2. Calling one wick a break — a low that dips under the line intraday and climbs back is not the same as a close that finishes below it. 3. Assuming steeper is better — a steep line only holds if every low comes in that much higher, so the more it demands the harder it is to keep. A red-bordered box below reads 'The biggest misconception — slipping below the line doesn't mean the direction has flipped. It records that the pace stopped; it says nothing about what comes next.'</figcaption>
+      <img src="en/card7.png" alt="Mistakes card. Three numbered items. 1. Drawing the angle first — decide on a slope you like, then pick only the lows that fit it, and the line becomes your drawing rather than the market's record. 2. Calling one wick a break — a low that dips under the line intraday and climbs back is not the same as a close that finishes below it. 3. Assuming steeper is better — a steep line only holds if every new point moves that much further, so the more it demands the harder it is to keep. A red-bordered box below reads 'The biggest misconception - leaving the line doesn't mean the direction has flipped. It records that the pace stopped; it says nothing about what comes next.'" loading="lazy">
+      <figcaption><b>p.07</b> Mistakes card. Three numbered items. 1. Drawing the angle first — decide on a slope you like, then pick only the lows that fit it, and the line becomes your drawing rather than the market's record. 2. Calling one wick a break — a low that dips under the line intraday and climbs back is not the same as a close that finishes below it. 3. Assuming steeper is better — a steep line only holds if every new point moves that much further, so the more it demands the harder it is to keep. A red-bordered box below reads 'The biggest misconception - leaving the line doesn't mean the direction has flipped. It records that the pace stopped; it says nothing about what comes next.'</figcaption>
     </figure>
     <figure>
-      <img src="en/card8.png" alt="Recap card. Three checkbox lines: Two lows draw it, the third confirms it / The slope is the pace the lows are rising / A break ends the pace, not the direction. Two yellow highlighter chips with a save prompt and hashtags, then 'Next up ▶ Gap up &amp; gap down', and an educational-purpose disclaimer at the bottom." loading="lazy">
-      <figcaption><b>p.08</b> Recap card. Three checkbox lines: Two lows draw it, the third confirms it / The slope is the pace the lows are rising / A break ends the pace, not the direction. Two yellow highlighter chips with a save prompt and hashtags, then 'Next up ▶ Gap up &amp; gap down', and an educational-purpose disclaimer at the bottom.</figcaption>
+      <img src="en/card8.png" alt="Recap card. Three checkbox lines: Two points draw it, the third confirms it / The slope is the pace those points move / A break ends the pace, not the direction. Two yellow highlighter chips with a save prompt and hashtags, then 'Next up ▶ Gap up &amp; gap down', and an educational-purpose disclaimer at the bottom." loading="lazy">
+      <figcaption><b>p.08</b> Recap card. Three checkbox lines: Two points draw it, the third confirms it / The slope is the pace those points move / A break ends the pace, not the direction. Two yellow highlighter chips with a save prompt and hashtags, then 'Next up ▶ Gap up &amp; gap down', and an educational-purpose disclaimer at the bottom.</figcaption>
     </figure></div>
-    <h3>캡션 (1465자)</h3>
-    <div class="cap">That slanted line across the chart wasn't drawn by eye.<br><br>Pick two lows where price turned around — two that sit at rising heights — join them, and that's a trendline. Two points draw the line; it only becomes a trend when price stops on it a third time.<br><br>Here's the one idea worth keeping from this episode. A flat line and a slanted line measure different things. Support records the height where price stops. A trendline records the pace at which those lows are rising. So a day that lands below the line isn't "a day it fell" — it's a day that fell short of the pace the earlier lows had set. It does not mean the direction has flipped, and that's the most common misreading.<br><br>We checked it on real Apple daily bars too. Join the August 12, 2026 low of $300.57 to the August 17 low of $302.94 and extend the line: eight sessions after that second low, the August 27 low of $309.40 stopped just $0.14 above it.<br><br>This episode only covers the rising kind, drawn under the lows. A downtrend line is drawn the same way, just across the highs instead.<br><br>Three things to keep<br>1. Two lows draw it, the third confirms it<br>2. The slope is the pace the lows are rising<br>3. A break ends the pace, not the direction<br><br>Save it and pull it up next time you open a chart 📌<br><br>#trendline #trendbreak #support #stockcharts #investingbasics #stockmarket101 #technicalanalysis #charting #apple #3mininvesting<br><br>Next up ▶ Gap up &amp; gap down<br><br>Educational content only. Not investment advice.</div>
+    <h3>캡션 (1651자)</h3>
+    <div class="cap">That slanted line across the chart wasn't drawn by eye.<br><br>Pick two lows where price turned around — two that sit at rising heights — join them, and that's a trendline. Two points draw the line; it only becomes a trend when price stops on it a third time.<br><br>Here's the one idea worth keeping from this episode. A flat line and a slanted line measure different things. Support records the height where price stops. A trendline records the pace at which those lows are rising. So a day that lands below the line isn't "a day it fell" — it's a day that fell short of the pace the earlier lows had set. It does not mean the direction has flipped, and that's the most common misreading.<br><br>We checked it on real Apple daily bars too. Join the August 12, 2026 low of $300.57 to the August 17 low of $302.94 and extend the line: eight sessions after that second low, the August 27 low of $309.40 stopped just $0.14 above it.<br><br>The examples here are uptrend lines, drawn under the lows, but it works upside down too. Join two highs that sit at falling heights and you get a downtrend line, which price meets from below — and there the break is the day price closes above it. Highs instead of lows, falling instead of rising; the method is the same.<br><br>Three things to keep<br>1. Two lows draw it, the third confirms it<br>2. The slope is the pace the lows are rising<br>3. A break ends the pace, not the direction<br><br>Save it and pull it up next time you open a chart 📌<br><br>#trendline #trendbreak #support #stockcharts #investingbasics #stockmarket101 #technicalanalysis #charting #apple #3mininvesting<br><br>Next up ▶ Gap up &amp; gap down<br><br>Educational content only. Not investment advice.</div>
 
 
 <div class="act">
